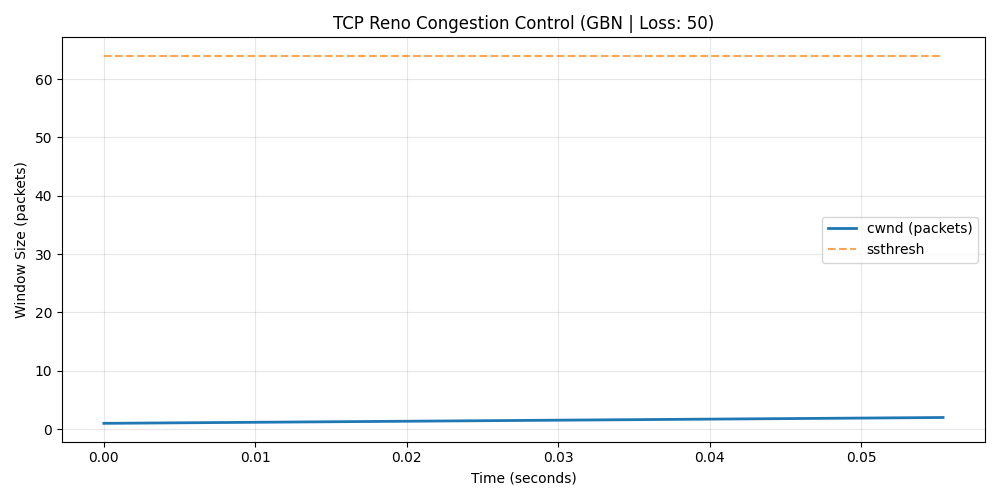
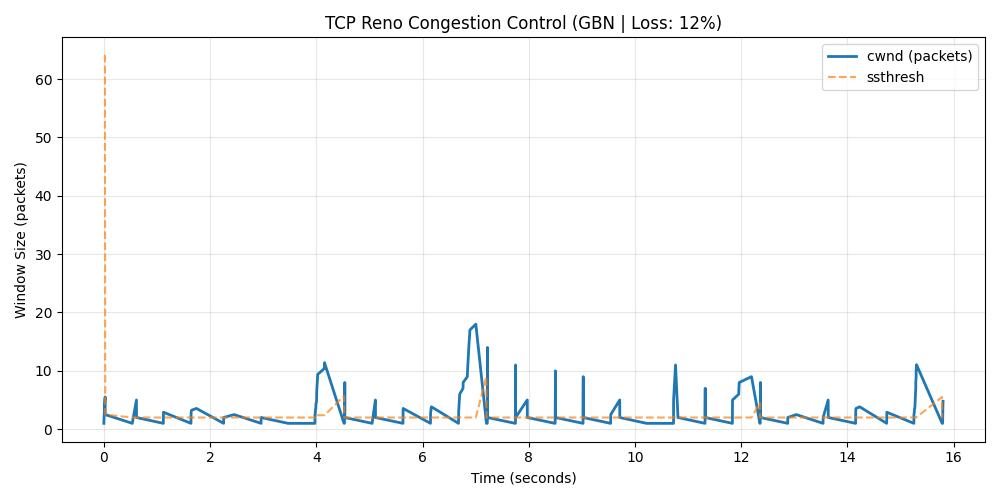
chore: update sample file creation
- adjust size of sample.bin (~100B) for longer simulation

- Minor miscellaneous formatting

diff --git a/main.py b/main.py
@@ -20,7 +20,7 @@ def sha256_file(file_path):
     return hash.hexdigest()
 
 
-def ensure_sample_file(file_path, size_kb=1):
+def ensure_sample_file(file_path, size_kb=100):
     dir_name = os.path.dirname(file_path)
     if dir_name and not os.path.exists(dir_name):
         os.makedirs(dir_name)
@@ -32,7 +32,7 @@ def ensure_sample_file(file_path, size_kb=1):
         print(f'[bold cyan]INFO:[/bold cyan] Creating {size_kb}KB sample file at {file_path}')
 
         with open(file_path, 'wb') as file:
-            file.write(os.urandom(size_kb * 10))
+            file.write(os.urandom(size_kb * 1024))
 
 def plot_cwnd(history, protocol, loss_prob, output_path='data/graph/cwnd_plot.png'):
     dir_name = os.path.dirname(output_path)
@@ -51,7 +51,7 @@ def plot_cwnd(history, protocol, loss_prob, output_path='data/graph/cwnd_plot.pn
         plt.plot(times, cwnds, label='cwnd (packets)', linewidth=2)
         plt.plot(times, ssthreshs, label='ssthresh', linestyle='--', alpha=0.7)
 
-        plt.title(f'TCP Reno Congestion Control ({protocol.upper()} | Loss: {loss_prob * 100:.0f})')
+        plt.title(f'TCP Reno Congestion Control ({protocol.upper()} | Loss: {loss_prob * 100:.0f}%)')
         plt.xlabel('Time (seconds)')
         plt.ylabel('Window Size (packets)')
 
